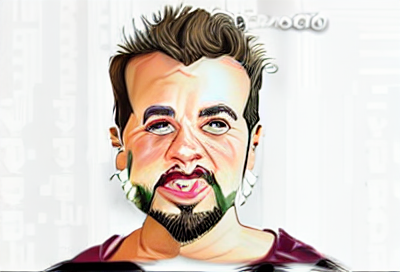
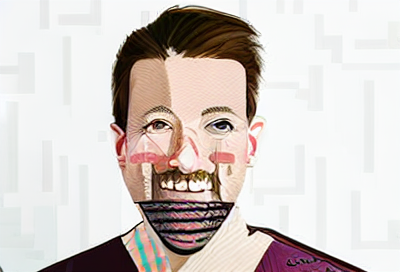
fixed process and added requirements

diff --git a/src/testens.py b/src/testens.py
@@ -1,0 +1,40 @@
+import torch
+from diffusers import StableDiffusionImg2ImgPipeline
+from PIL import Image
+import random
+
+# Bild laden
+init_image = Image.open("src/assets/tüp.png").convert("RGB")
+
+# Device wählen
+device = "cuda" if torch.cuda.is_available() else "cpu"
+
+# Pipeline laden
+pipe = StableDiffusionImg2ImgPipeline.from_pretrained(
+    "Norod78/sd15-caricature-portraits-blip-captions", 
+    torch_dtype=torch.float16
+).to(device)
+
+prompt = (
+    "clean caricature portrait, stylized face, soft shading, strong outlines, "
+    "exaggerated proportions, high quality"
+)
+
+# Stärke: Wie stark das Original verändert wird
+strength = random.uniform(0.45, 0.7)
+
+# Seed: Für Zufall
+seed = random.randint(0, 999999999)
+generator = torch.Generator(device).manual_seed(seed)
+
+# Inferenz
+result = pipe(
+    prompt=prompt,
+    image=init_image,
+    strength=strength,
+    guidance_scale=2.0,     # bei SDXL turbo klein halten
+    generator=generator
+).images[0]
+
+# Speichern
+result.save("src/assets/caricature.png")
